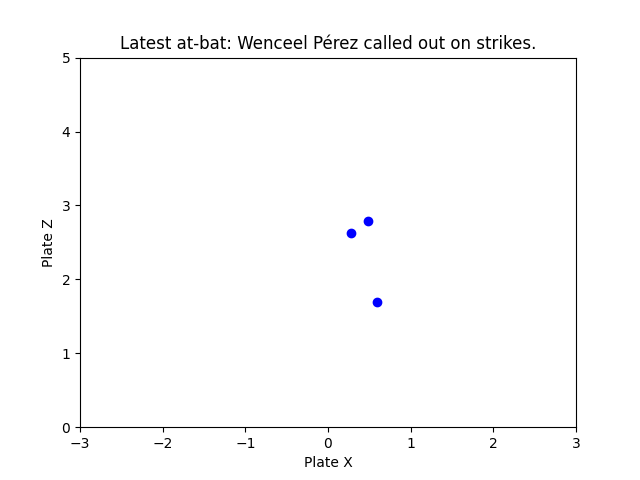
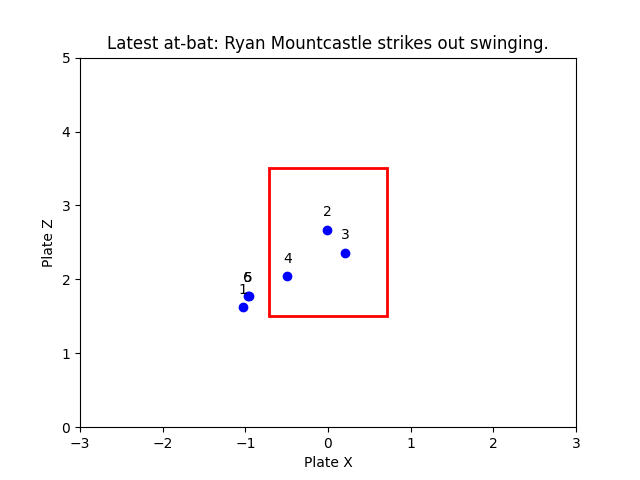
testing and changing filepaths , making things look pretty too

Changed region(s): [[0.1562, 0.0625, 0.8438, 0.125], [0.375, 0.3438, 0.625, 0.6875], [0.5, 0.4688, 0.5625, 0.5312]]

diff --git a/frontend/src/views/StatisticsView.vue b/frontend/src/views/StatisticsView.vue
@@ -19,7 +19,8 @@
             Select a file containing player statistics to upload and analyze.
           </v-card-text>
           <v-card-actions class="justify-center">
-            <input type="file" @change="uploadFile(file.target.files[0])" />
+            <input type="file" @change="uploadFile($event.target.files[0])" />
+
             <v-btn color="success" @click="generateImages">Generate Images</v-btn>
            
             <a href="C:/Users/davis/Documents/PitchTek/backend/assets/Pitch_Data_Template.csv" download="Pitch_Data_Template.csv">
@@ -163,7 +164,7 @@ export default {
     // Trigger the file read
     reader.readAsText(file);
   },
-    uploadFile(file) {
+    /*uploadFile(file) {
       const formData = new FormData();
       formData.append('file', file);
 
@@ -179,7 +180,7 @@ export default {
       .catch(error => {
         console.error('Error during file upload:', error);
       });
-    },
+    }*/
     generateImages() {
   axios.post('http://localhost:5000/api/generate-images')
     .then(response => {

diff --git a/backend/app/routes.py b/backend/app/routes.py
@@ -1,28 +1,32 @@
 from app.get_prediction import Predictions_Class
 from app import app, user_manager, stats_api
-import statsapi 
+import statsapi
 from app.data_visualizer import DataVisualizer
 import os
-from flask import Flask, request, jsonify, send_file, send_from_directory
+from flask import Flask, request, jsonify, send_from_directory
 from werkzeug.utils import secure_filename
 import pandas as pd
 import matplotlib
 matplotlib.use('Agg')  # Use the 'Agg' backend, which is non-interactive and does not require a GUI.
 import matplotlib.pyplot as plt
 
-import io
-import base64
+# Configure directories using environment variables or default to a relative path
+app.config['UPLOAD_FOLDER'] = os.getenv('UPLOAD_FOLDER', './uploads')
+app.config['STATIC_FOLDER'] = os.getenv('STATIC_FOLDER', './static')
+
+# Ensure the directory exists
+os.makedirs(app.config['UPLOAD_FOLDER'], exist_ok=True)
+os.makedirs(app.config['STATIC_FOLDER'], exist_ok=True)
+
 @app.route('/api/sign_up', methods=['POST'])
 def sign_up():
     data = request.get_json()
     token = user_manager.user_sign_up(data["username"], data["password"])
     if token:
         seasons = ["2024 MLB", "2023 MLB", "2023 UNR", "2023 TMCC"]
-        return jsonify({'message': 'User signed up successfully', 
-                        'seasons': seasons, 'token': token}), 200
+        return jsonify({'message': 'User signed up successfully', 'seasons': seasons, 'token': token}), 200
     else:
         return jsonify({'message': 'Username is unavailable'}), 400
-
 
 @app.route('/api/login', methods=['POST'])
 def login():
@@ -30,17 +34,14 @@ def login():
     token = user_manager.user_login(data["username"], data["password"])
     if token:
         seasons = ["2024 MLB", "2023 MLB", "2023 UNR", "2023 TMCC"]
-        return jsonify({'message': 'User logged in successfully', 
-                        'seasons': seasons, 'token': token}), 200
+        return jsonify({'message': 'User logged in successfully', 'seasons': seasons, 'token': token}), 200
     else:
         return jsonify({'message': 'Invalid username or password'}), 401
-
 
 @app.route('/api/logout', methods=['POST'])
 def logout():
     user_manager.user_logout()
     return jsonify({'message': 'User logged out successfully'}), 200
-
 
 @app.route("/api/get_teams", methods=["GET"])
 def get_teams():
@@ -49,7 +50,6 @@ def get_teams():
         return jsonify(teams_dict)
     else:
         return jsonify({"error": "Teams not found"}), 404
-
 
 @app.route('/api/get_roster/<int:id>', methods=['GET'])
 def get_roster(id):
@@ -61,7 +61,6 @@ def get_roster(id):
     else:
         return jsonify({"error": "Roster not found"}), 404
 
-
 @app.route('/api/get_batter/<int:id>', methods=['GET'])
 def get_batter(id):
     batter_dict = stats_api.get_row("BATTERS", id)
@@ -69,7 +68,6 @@ def get_batter(id):
         return jsonify(batter_dict)
     else:
         return jsonify({"error": "Batter not found"}), 404
-
 
 @app.route('/api/get_pitcher/<int:id>', methods=['GET'])
 def get_pitcher(id):
@@ -79,41 +77,28 @@ def get_pitcher(id):
     else:
         return jsonify({"error": "Pitcher not found"}), 404
 
-
 @app.route('/make_prediction', methods=['GET'])
 def make_prediction():
-    #predicter = Predictions_Class()
-
-    # Extract keys associated with 'param1'
-    #param1_keys = [key for key in request.args.keys() if key.startswith('param1')]
-    #param1_dict = {key.split('[', 1)[1][:-1]: request.args[key] for key in param1_keys}
-
-    #pitch_type = predicter.get_type(param1_dict, request.args.get("param2"))
-    #pitch_speed = predicter.get_speed(pitch_type)
     pitch_type = "Sinker (SI)"
     pitch_speed = 92.7
     return jsonify(pitch_type, pitch_speed)
-df_global = pd.DataFrame()
 
+df_global = pd.DataFrame()
 
 @app.route('/get_latest_at_bat', methods=['GET'])
 def get_latest_at_bat():
     player_name = request.args.get('player_name')
     if not player_name or df_global.empty:
         return jsonify({'error': 'No data or player name provided'}), 400
-
-    # Filter the data for the selected player and get the latest entry
     player_data = df_global[df_global['player_from_des'] == player_name]
     latest_at_bat = player_data.iloc[-1]  # assuming the data is ordered chronologically
-
-    # Prepare the data for visualization
     data = {
         'plate_x': latest_at_bat['plate_x'],
         'plate_z': latest_at_bat['plate_z'],
         'description': latest_at_bat['des']
     }
     return jsonify(data)
-df_global = pd.DataFrame()
+
 @app.route('/upload_csv', methods=['POST'])
 def upload_csv():
     global df_global
@@ -123,103 +108,68 @@ def upload_csv():
     players = df_global['player_from_des'].unique().tolist()
     return jsonify(players)
 
-
-os.makedirs('static', exist_ok=True)
-
-
 @app.route('/fetch_latest_at_bat_plot', methods=['GET'])
 def fetch_latest_at_bat_plot():
     player_name = request.args.get('player_name')
     if not player_name:
         return jsonify({'error': 'Player name parameter is missing'}), 400
-
     if df_global.empty or 'player_from_des' not in df_global.columns:
         return jsonify({'error': 'No data available or incorrect data format'}), 400
-
     mask = df_global['player_from_des'].str.contains(player_name, na=False)
     if not mask.any():
         return jsonify({'error': 'Player not found in data'}), 404
-
     start_index = mask[mask].index[0]
     end_index = mask[start_index:].idxmin() if False in mask[start_index:].values else None
-
-    # Subset the data for the player
     player_data = df_global[start_index:end_index]
     player_data = player_data[player_data['des'] == player_data.loc[start_index, 'des']]
-
     if player_data.empty:
         return jsonify({'error': 'No data found for this player'}), 404
-
     latest_at_bat = player_data.iloc[-1]
-
-    # Generate plot
     fig, ax = plt.subplots()
     ax.scatter(player_data['plate_x'], player_data['plate_z'], color='blue')
-
-    # Adding a strike zone box
     strike_zone_bottom = 1.5
     strike_zone_top = 3.5
     plate_width = 1.42
     ax.add_patch(plt.Rectangle((-plate_width/2, strike_zone_bottom), plate_width, strike_zone_top - strike_zone_bottom, fill=False, color='red', lw=2))
-
-    # Annotating points
     for i, point in enumerate(player_data.itertuples(), 1):
         ax.annotate(str(i), (point.plate_x, point.plate_z), textcoords="offset points", xytext=(0,10), ha='center')
-
     ax.set_xlim(-3, 3)
     ax.set_ylim(0, 5)
     ax.set_title(f"Latest at-bat: {latest_at_bat['des']}")
     ax.set_xlabel('Plate X')
     ax.set_ylabel('Plate Z')
-
-    # Save the plot to a file
-    current_directory = os.path.dirname(os.path.abspath(__file__))
-    base_directory = os.path.dirname(os.path.dirname(os.path.dirname(current_directory)))
     filename = "latest_at_bat.png"
-    file_path = os.path.join(base_directory, 'Pitchtek/frontend/src/assets/static/', filename)
+    file_path = os.path.join(app.config['STATIC_FOLDER'], filename)
     plt.savefig(file_path)
     plt.close(fig)
-
     return jsonify({'image_url': f'static/{filename}'})
-
-
 
 @app.route('/get_latest_image', methods=['GET'])
 def get_latest_image():
-    return send_from_directory(app.static_folder, 'latest_at_bat_plot.png')
-
-# Directory where uploaded files are stored
-UPLOAD_FOLDER = './PitchTek-2/uploads'
-app.config['UPLOAD_FOLDER'] = UPLOAD_FOLDER
-
-# Variable to keep track of the latest uploaded file
-latest_uploaded_file = None
+    return send_from_directory(app.config['STATIC_FOLDER'], 'latest_at_bat_plot.png')
 
 @app.route('/api/upload', methods=['POST'])
 def upload_file():
     global latest_uploaded_file
-    
     if 'file' not in request.files:
         return jsonify({'error': 'No file part'}), 400
-    
     file = request.files['file']
-    
     if file.filename == '':
         return jsonify({'error': 'No selected file'}), 400
-    
     filename = secure_filename(file.filename)
     save_path = os.path.join(app.config['UPLOAD_FOLDER'], filename)
     file.save(save_path)
-    
-    # Update the path of the latest uploaded file
     latest_uploaded_file = save_path
-    print(latest_uploaded_file)
     return jsonify({'message': 'File uploaded successfully'}), 200
-
 
 @app.route('/images/<filename>')
 def uploaded_file(filename):
-    return send_from_directory('./frontend/src/assets/', filename)
+    return send_from_directory(app.config['UPLOAD_FOLDER'], filename)
+
+# Other API endpoints...
+
+if __name__ == '__main__':
+    app.run(debug=True)
 
 @app.route('/api/generate-images', methods=['POST'])
 def generate_images_route():
